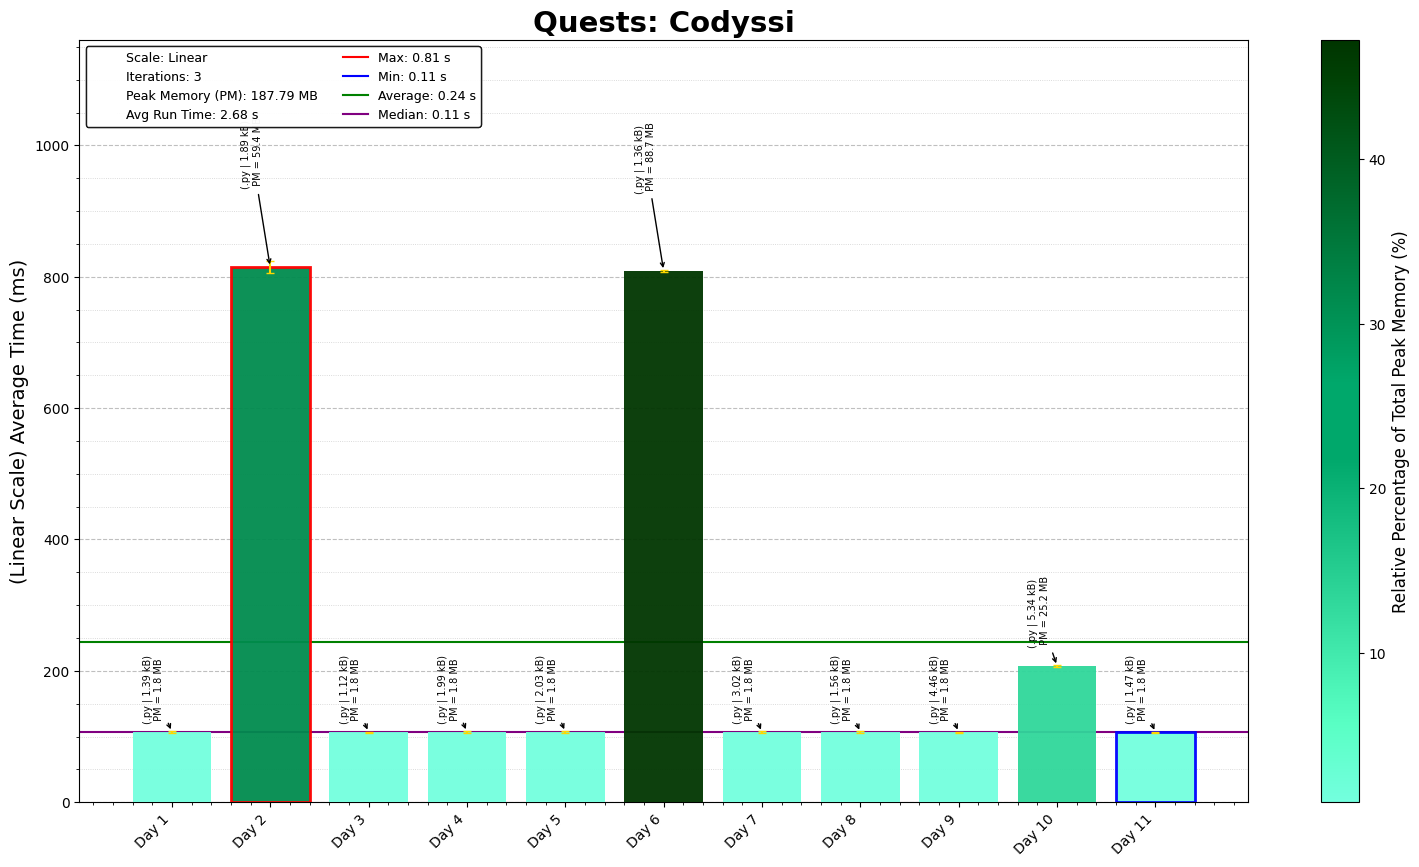
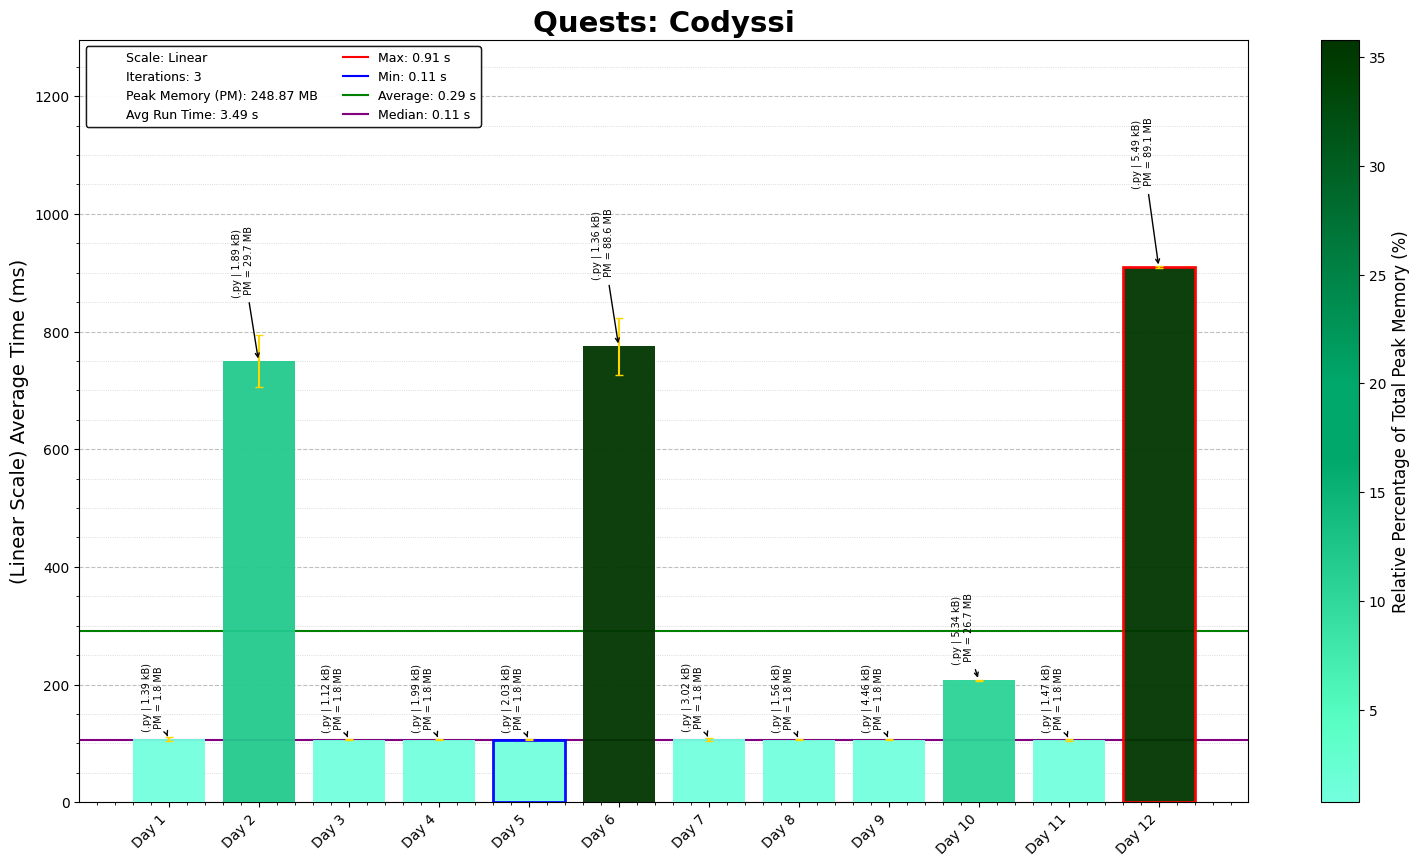
Codyssi Day 12 P2 & 3

diff --git a/Codyssi/2025/12/CodyssiDay12.py b/Codyssi/2025/12/CodyssiDay12.py
@@ -24,10 +24,9 @@ with open(D12_file_path) as file:
     control_actions = input_data[2].split('\n')
 
 class CharybdisWhirlpool:
-    def __init__(self, grid: list[list[int]], instructions: list[str], actions: list[str]):
+    def __init__(self, grid: list[list[int]], instructions: list[str]):
         self.grid_array = np.array(grid)
         self.instructions = instructions
-        self.control_actions = actions
 
     @staticmethod
     def rotate_list(nums, k):
@@ -35,9 +34,15 @@ class CharybdisWhirlpool:
         rotated = np.concatenate((nums[-k:], nums[:-k]))  # concatenate arrays
         return rotated
 
-    def perform_instructions(self, instructions: list[str], num_grid = None):
-        grid_array = self.grid_array.copy() if not num_grid else np.array(num_grid.copy())
-        print(grid_array)
+    @staticmethod
+    def calculate_property_sum(grid: list[list[int]], sum_prop: str = "max"):
+        if sum_prop == "max":
+            return  max(np.sum(grid, axis=num).max() for num in [0, 1])
+        elif sum_prop == "min":
+            return  min(np.sum(grid, axis=num).min() for num in [0, 1])
+
+    def perform_instructions(self, instructions, num_grid):
+        grid_array = np.array(num_grid.copy())
         for command in instructions:
             cmd_list = command.split()
             op = cmd_list[0]
@@ -92,9 +97,54 @@ class CharybdisWhirlpool:
 
         return grid_array
 
-monster = CharybdisWhirlpool(num_grid, instructions, control_actions)
+    def perform_control_actions(self, control_actions: list[str]):
+        grid = self.grid_array.copy()
+        instruc_list = self.instructions.copy()
+        taken_actions = []
+        for action in control_actions:
+            if action == "TAKE":
+                if instruc_list:
+                    taken_actions = [instruc_list.pop(0)]
+            elif action == "CYCLE":
+                if taken_actions:
+                    instruc_list.append(taken_actions.pop())
+            elif action == "ACT":
+                if taken_actions:
+                    grid = self.perform_instructions(taken_actions, grid)
+                    taken_actions = []
+        return grid
 
-grid_p1 = monster.perform_instructions(instructions)
-maxsum_p1 = max(np.sum(grid_p1, axis=num).max() for num in [0, 1])
+    def perform_all_actions(self, control_actions: list[str]):
+        grid = self.grid_array.copy()
+        instruc_list = self.instructions.copy()
+        taken_actions = []
+        action_idx = 0
+        while instruc_list or taken_actions:
+            action = control_actions[action_idx]
+            if action == "TAKE":
+                if instruc_list:
+                    taken_actions = [instruc_list.pop(0)]
+            elif action == "CYCLE":
+                if taken_actions:
+                    instruc_list.append(taken_actions.pop())
+            elif action == "ACT":
+                if taken_actions:
+                    grid = self.perform_instructions(taken_actions, grid)
+                    taken_actions = []
+            action_idx = (action_idx + 1) % len(control_actions)
+        return grid
+
+monster = CharybdisWhirlpool(num_grid, instructions)
+
+grid_p1 = monster.perform_instructions(instructions, num_grid)
+maxsum_p1 = monster.calculate_property_sum(grid_p1)
 print("Part 1:", maxsum_p1)
+
+grid_p2 = monster.perform_control_actions(control_actions)
+maxsum_p2 = monster.calculate_property_sum(grid_p2)
+print("Part 2:", maxsum_p2)
+
+grid_p3 = monster.perform_all_actions(control_actions)
+maxsum_p3 = monster.calculate_property_sum(grid_p3)
+print("Part 3:", maxsum_p3)
 

diff --git a/Codyssi/2025/README_Codyssi2025.md b/Codyssi/2025/README_Codyssi2025.md
@@ -14,5 +14,5 @@
 9. **Problem 9 - Windy Bargain**: Basic accounting, keeping track of cash and balancing the books.
 10. **Problem 10 - Cyclops Chaos**: Path finding through agrid, looking for safest path using heapq and basic method.
 11. **Problem 11 - Games in a Storm**: Reading numbers from different base and converting them to a target base, plus identifying the min base for any number of a target length.
-12. **Problem 12 - Challenging the Whirlpool**: Performing a series of ADD/SUB/MULT ops on a grid of numbers.
+12. **Problem 12 - Challenging the Whirlpool**: Performing a series of ADD/SUB/MULT ops on a grid of numbers, and then manipulating the instruction list based on control actions.
 ---
